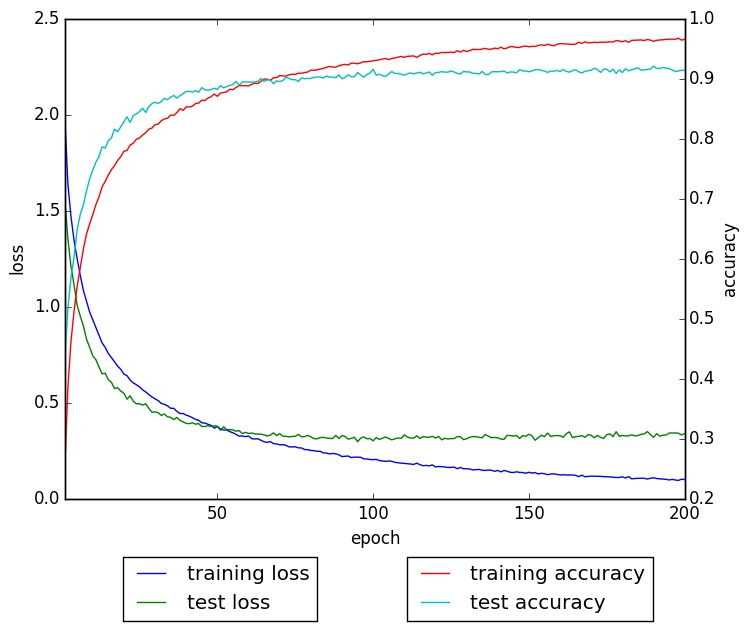
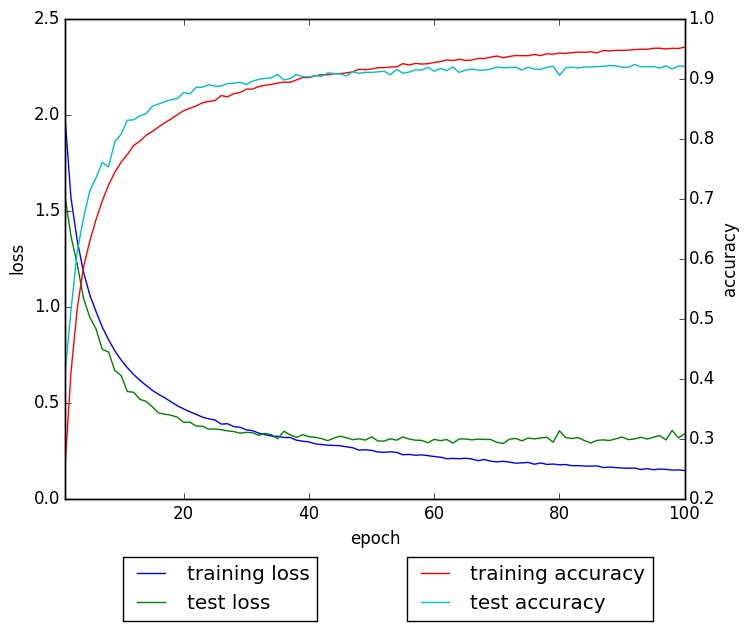
update the best accuracy

diff --git a/train.py b/train.py
@@ -192,11 +192,14 @@ if __name__ == '__main__':
     parser.add_argument('--opt', type=str, default='Adam',
                         choices=['MomentumSGD', 'Adam', 'AdaGrad'])
     parser.add_argument('--weight_decay', type=float, default=0.0005)
-    parser.add_argument('--alpha', type=float, default=0.0001)
+    parser.add_argument('--alpha', type=float, default=0.001)
     parser.add_argument('--lr', type=float, default=0.01)
     parser.add_argument('--lr_decay_freq', type=int, default=100)
     parser.add_argument('--lr_decay_ratio', type=float, default=0.1)
+    parser.add_argument('--seed', type=int, default=1701)
     args = parser.parse_args()
+    np.random.seed(args.seed)
+
 
     # create result dir
     log_fn, result_dir = create_result_dir(args)
@@ -214,7 +217,7 @@ if __name__ == '__main__':
     logging.info('flip:{}\tnorm:{}'.format(_flip, _norm))
     trans = Transform(flip=_flip,
                       shift=args.shift,
-                      size=(args.size, args.size),
+                      size=args.size,
                       norm=_norm)
     logging.info('start training...')
 

diff --git a/transform.py b/transform.py
@@ -19,15 +19,14 @@ class Transform(object):
         if hasattr(self, 'shift'):
             self.translate()
         if hasattr(self, 'size'):
-            if isinstance(self.size, tuple):
-                self.scale()
-            else:
-                print('"size" attribute should be a tuple')
+            if not isinstance(self.size, tuple):
+                self.size = (self.size, self.size)
+            self.scale()
         if hasattr(self, 'norm'):
             if self.norm:
                 if not self._img.dtype == np.float32:
                     self._img = self._img.astype(np.float32)
-                # local contrast normalization
+                # global contrast normalization
                 for ch in range(self._img.shape[2]):
                     im = self._img[:, :, ch]
                     im = (im - np.mean(im)) / \

diff --git a/test.py b/test.py
@@ -16,7 +16,7 @@ from progressbar import ProgressBar
 
 
 def aug_eval(test_data, test_labels, N_test, model, gpu=0):
-    trans = Transform(norm=True)
+    trans = Transform(flip=True, norm=True)
     # evaluation
     n_dup = 1
     sum_correct = 0

diff --git a/README.md b/README.md
@@ -44,7 +44,7 @@ You can choose model file to be trained from models dir. Cifar10, Network In Net
     - PReLU: Parameterized ReLU for all activation functions
 
 - VGG_mini_PReLU didn't perform well
-- Default setting (`$ python train.py`) is VGG_mini_ABN, and it performed the below result (90.55% accuracy at epoch 100):
+- Default setting (`$ python train.py`) is VGG_mini_ABN, and it performed the below result (91.09% accuracy at epoch 100):
 
 ![loss curve](loss.jpg)
 
